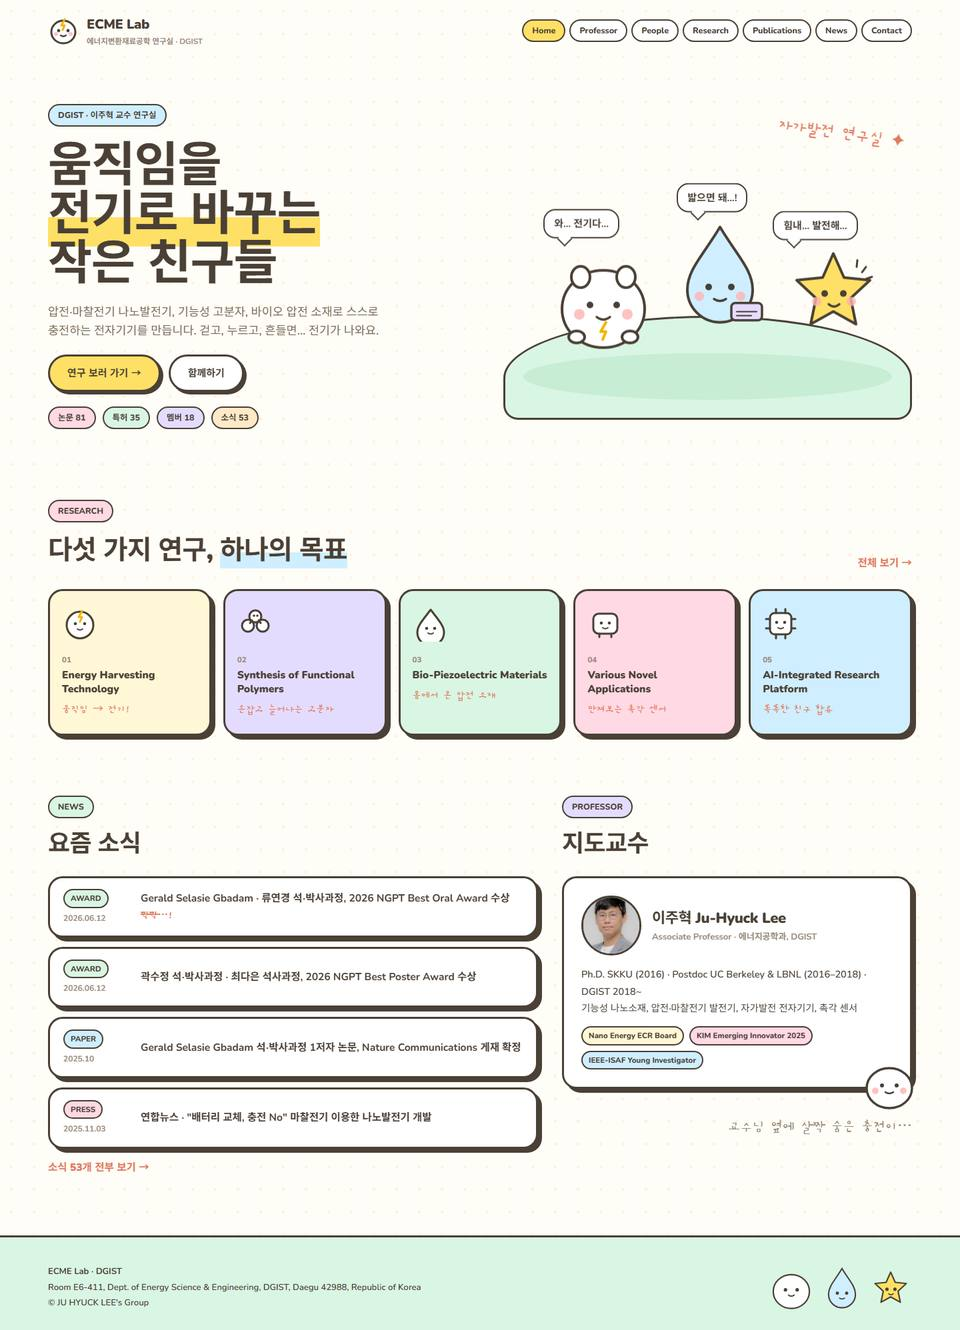
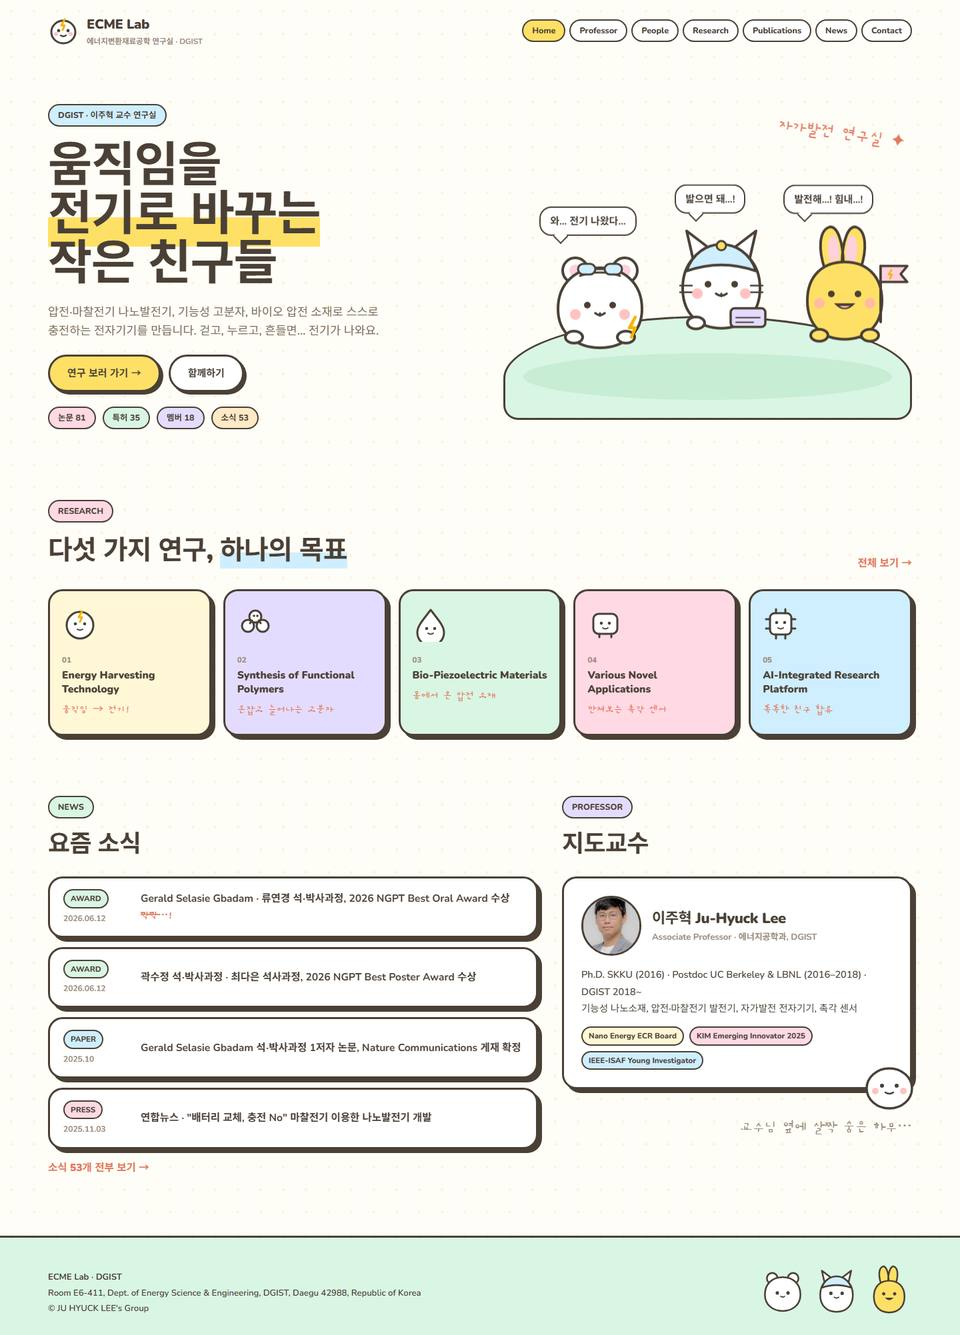
Drafts browser: updated mascot draft CH

diff --git a/drafts/d/DirectionCH.dc.html b/drafts/d/DirectionCH.dc.html
@@ -55,20 +55,52 @@
     <div style="position: relative; height: 520px;">
       <div style="position: absolute; left: 0; right: 0; bottom: 30px; height: 150px; background: #d9f5e3; border: 3px solid #4a4036; border-radius: 50% 50% 22px 22px / 60% 60% 22px 22px;"></div>
       <div style="position: absolute; left: 30px; right: 30px; bottom: 60px; height: 70px; background: #bfe9cf; border-radius: 50%; opacity: .7;"></div>
-      <!-- mascot 1: 충전이 (round white blob, lightning belly) -->
-      <div class="ch-bob" style="position: absolute; left: 70px; bottom: 120px;">
-        <div class="ch-bubble" style="left: -10px; top: -58px;">와… 전기다…</div>
-        <svg width="160" height="160" viewBox="0 0 160 160"><ellipse cx="80" cy="92" rx="62" ry="58" fill="#fff" stroke="#4a4036" stroke-width="4"/><ellipse cx="46" cy="44" rx="14" ry="16" fill="#fff" stroke="#4a4036" stroke-width="4"/><ellipse cx="114" cy="44" rx="14" ry="16" fill="#fff" stroke="#4a4036" stroke-width="4"/><circle cx="60" cy="86" r="5" fill="#4a4036"/><circle cx="100" cy="86" r="5" fill="#4a4036"/><path d="M70 104q10 8 20 0" stroke="#4a4036" stroke-width="3.5" fill="none" stroke-linecap="round"/><circle cx="44" cy="100" r="8" fill="#ffb3b3" opacity=".8"/><circle cx="116" cy="100" r="8" fill="#ffb3b3" opacity=".8"/><path d="M84 112l-8 14h8l-5 12" stroke="#f4b400" stroke-width="4" fill="none" stroke-linecap="round" stroke-linejoin="round"/><ellipse cx="40" cy="134" rx="12" ry="9" fill="#fff" stroke="#4a4036" stroke-width="4"/><ellipse cx="120" cy="134" rx="12" ry="9" fill="#fff" stroke="#4a4036" stroke-width="4"/></svg>
+      <!-- mascot 1: 하무 — hamster-like, white, round ears, goggles on head, holding a lightning bolt -->
+      <div class="ch-bob" style="position: absolute; left: 60px; bottom: 110px;">
+        <div class="ch-bubble" style="left: -6px; top: -56px;">와… 전기 나왔다…</div>
+        <svg width="170" height="175" viewBox="0 0 170 175">
+          <circle cx="48" cy="40" r="19" fill="#fff" stroke="#4a4036" stroke-width="4"/><circle cx="48" cy="40" r="9" fill="#ffd1dc"/>
+          <circle cx="122" cy="40" r="19" fill="#fff" stroke="#4a4036" stroke-width="4"/><circle cx="122" cy="40" r="9" fill="#ffd1dc"/>
+          <path d="M22 98c0-40 28-62 63-62s63 22 63 62c0 36-28 58-63 58S22 134 22 98z" fill="#fff" stroke="#4a4036" stroke-width="4"/>
+          <path d="M55 48q30-10 60 0" stroke="#4a4036" stroke-width="3" fill="none" stroke-linecap="round"/>
+          <rect x="52" y="30" width="26" height="16" rx="8" fill="#cfeeff" stroke="#4a4036" stroke-width="3"/><rect x="92" y="30" width="26" height="16" rx="8" fill="#cfeeff" stroke="#4a4036" stroke-width="3"/><path d="M78 38h14" stroke="#4a4036" stroke-width="3"/>
+          <circle cx="66" cy="92" r="5" fill="#4a4036"/><circle cx="104" cy="92" r="5" fill="#4a4036"/>
+          <path d="M78 104q7 6 14 0" stroke="#4a4036" stroke-width="3.5" fill="none" stroke-linecap="round"/><path d="M85 104v4" stroke="#4a4036" stroke-width="3" stroke-linecap="round"/>
+          <circle cx="48" cy="106" r="8" fill="#ffb3b3" opacity=".8"/><circle cx="122" cy="106" r="8" fill="#ffb3b3" opacity=".8"/>
+          <ellipse cx="46" cy="140" rx="13" ry="9" fill="#fff" stroke="#4a4036" stroke-width="4"/><ellipse cx="124" cy="140" rx="13" ry="9" fill="#fff" stroke="#4a4036" stroke-width="4"/>
+          <path d="M138 110l-9 16h9l-6 14" stroke="#f4b400" stroke-width="4.5" fill="#ffe066" stroke-linecap="round" stroke-linejoin="round"/>
+        </svg>
       </div>
-      <!-- mascot 2: 압전이 (blue droplet) holding a tile -->
-      <div class="ch-bob ch-bob2" style="position: absolute; left: 250px; bottom: 150px;">
-        <div class="ch-bubble" style="left: 10px; top: -52px;">밟으면 돼…!</div>
-        <svg width="150" height="170" viewBox="0 0 150 170"><path d="M75 14C50 56 26 78 26 108a49 49 0 0 0 98 0c0-30-24-52-49-94z" fill="#cfeeff" stroke="#4a4036" stroke-width="4" stroke-linejoin="round"/><circle cx="58" cy="104" r="5" fill="#4a4036"/><circle cx="92" cy="104" r="5" fill="#4a4036"/><path d="M66 122q9 6 18 0" stroke="#4a4036" stroke-width="3.5" fill="none" stroke-linecap="round"/><circle cx="44" cy="118" r="7" fill="#ffb3b3" opacity=".8"/><circle cx="106" cy="118" r="7" fill="#ffb3b3" opacity=".8"/><rect x="92" y="128" width="46" height="26" rx="6" fill="#e4dcff" stroke="#4a4036" stroke-width="3.5"/><path d="M100 141h30M100 147h22" stroke="#4a4036" stroke-width="2" stroke-linecap="round"/></svg>
+      <!-- mascot 2: 나비 — cat-like, white with a pale-blue lab beanie, whiskers, holding a nanogenerator tile -->
+      <div class="ch-bob ch-bob2" style="position: absolute; left: 245px; bottom: 140px;">
+        <div class="ch-bubble" style="left: 12px; top: -52px;">밟으면 돼…!</div>
+        <svg width="165" height="180" viewBox="0 0 165 180">
+          <path d="M40 62L30 18l34 26zM124 62l10-44-34 26z" fill="#fff" stroke="#4a4036" stroke-width="4" stroke-linejoin="round"/>
+          <path d="M24 104c0-40 26-62 58-62s58 22 58 62-26 60-58 60-58-20-58-60z" fill="#fff" stroke="#4a4036" stroke-width="4"/>
+          <path d="M30 78c8-26 30-40 52-40s44 14 52 40c-18-6-36-9-52-9s-34 3-52 9z" fill="#cfeeff" stroke="#4a4036" stroke-width="4" stroke-linejoin="round"/>
+          <circle cx="82" cy="40" r="7" fill="#ffe066" stroke="#4a4036" stroke-width="3"/>
+          <circle cx="62" cy="98" r="5" fill="#4a4036"/><circle cx="102" cy="98" r="5" fill="#4a4036"/>
+          <path d="M74 112q8 6 16 0" stroke="#4a4036" stroke-width="3.5" fill="none" stroke-linecap="round"/><path d="M82 112v4" stroke="#4a4036" stroke-width="3" stroke-linecap="round"/>
+          <path d="M20 100h18M20 110h18M126 100h18M126 110h18" stroke="#4a4036" stroke-width="2.5" stroke-linecap="round"/>
+          <circle cx="46" cy="112" r="8" fill="#ffb3b3" opacity=".8"/><circle cx="118" cy="112" r="8" fill="#ffb3b3" opacity=".8"/>
+          <rect x="96" y="134" width="52" height="28" rx="6" fill="#e4dcff" stroke="#4a4036" stroke-width="3.5"/><path d="M104 148h36M104 155h26" stroke="#4a4036" stroke-width="2" stroke-linecap="round"/>
+          <ellipse cx="44" cy="156" rx="13" ry="9" fill="#fff" stroke="#4a4036" stroke-width="4"/>
+        </svg>
       </div>
-      <!-- mascot 3: 마찰이 (yellow star-ish) -->
-      <div class="ch-bob ch-bob3" style="position: absolute; left: 420px; bottom: 125px;">
-        <div class="ch-bubble" style="left: -16px; top: -52px;">힘내… 발전해…</div>
-        <svg width="150" height="150" viewBox="0 0 150 150"><path d="M75 12l16 36 39 4-29 27 8 39-34-19-34 19 8-39L20 52l39-4z" fill="#ffe066" stroke="#4a4036" stroke-width="4" stroke-linejoin="round"/><circle cx="62" cy="72" r="5" fill="#4a4036"/><circle cx="90" cy="72" r="5" fill="#4a4036"/><path d="M68 88q8 7 16 0" stroke="#4a4036" stroke-width="3.5" fill="none" stroke-linecap="round"/><circle cx="50" cy="84" r="7" fill="#ffb3b3" opacity=".8"/><circle cx="102" cy="84" r="7" fill="#ffb3b3" opacity=".8"/><path d="M118 40l6-8M124 50l9-3M110 32l1-10" stroke="#4a4036" stroke-width="3" stroke-linecap="round"/></svg>
+      <!-- mascot 3: 토토 — rabbit-like, yellow, long ears, wide happy mouth, waving a flag -->
+      <div class="ch-bob ch-bob3" style="position: absolute; left: 430px; bottom: 120px;">
+        <div class="ch-bubble" style="left: -10px; top: -56px;">발전해…! 힘내…!</div>
+        <svg width="190" height="190" viewBox="0 0 190 190">
+          <path d="M52 70c-10-30-8-56 6-62 12-5 22 20 22 56zM106 70c10-30 8-56-6-62-12-5-22 20-22 56z" fill="#ffe066" stroke="#4a4036" stroke-width="4" stroke-linejoin="round"/>
+          <path d="M60 60c-5-20-3-36 4-40 6-3 11 14 10 36zM98 60c5-20 3-36-4-40-6-3-11 14-10 36z" fill="#ffd1dc"/>
+          <path d="M26 118c0-38 24-58 56-58s56 20 56 58-24 58-56 58-56-20-56-58z" fill="#ffe066" stroke="#4a4036" stroke-width="4"/>
+          <circle cx="62" cy="108" r="5" fill="#4a4036"/><circle cx="102" cy="108" r="5" fill="#4a4036"/>
+          <path d="M66 122q16 18 32 0z" fill="#4a4036"/><path d="M74 126q8 6 16 0" fill="#ffb3b3"/>
+          <circle cx="44" cy="122" r="8" fill="#ffb3b3" opacity=".8"/><circle cx="120" cy="122" r="8" fill="#ffb3b3" opacity=".8"/>
+          <ellipse cx="44" cy="170" rx="13" ry="9" fill="#ffe066" stroke="#4a4036" stroke-width="4"/><ellipse cx="120" cy="170" rx="13" ry="9" fill="#ffe066" stroke="#4a4036" stroke-width="4"/>
+          <path d="M136 150V66" stroke="#4a4036" stroke-width="4" stroke-linecap="round"/><path d="M136 66h40l-10 12 10 12h-40z" fill="#ffd1dc" stroke="#4a4036" stroke-width="3.5" stroke-linejoin="round"/>
+          <path d="M152 72l-4 7h5l-3 6" stroke="#f4b400" stroke-width="2.5" fill="none" stroke-linecap="round" stroke-linejoin="round"/>
+        </svg>
       </div>
       <div class="ch-hand" style="position: absolute; right: 10px; top: 40px; font-size: 26px; color: #e0795f; transform: rotate(8deg);">자가발전 연구실 ✦</div>
     </div>
@@ -107,7 +139,7 @@
         <div style="display: flex; flex-wrap: wrap; gap: 8px; margin-top: 14px;"><span class="ch-tag" style="background: #fff7d6;">Nano Energy ECR Board</span><span class="ch-tag" style="background: #ffd9e4;">KIM Emerging Innovator 2025</span><span class="ch-tag" style="background: #cfeeff;">IEEE-ISAF Young Investigator</span></div>
         <svg width="90" height="80" viewBox="0 0 90 80" style="position: absolute; right: -14px; bottom: -34px;"><ellipse cx="45" cy="48" rx="34" ry="30" fill="#fff" stroke="#4a4036" stroke-width="3.5"/><circle cx="34" cy="44" r="3" fill="#4a4036"/><circle cx="56" cy="44" r="3" fill="#4a4036"/><path d="M39 54q6 4 12 0" stroke="#4a4036" stroke-width="2.5" fill="none" stroke-linecap="round"/><circle cx="24" cy="52" r="5" fill="#ffb3b3" opacity=".8"/><circle cx="66" cy="52" r="5" fill="#ffb3b3" opacity=".8"/></svg>
       </div>
-      <div class="ch-hand" style="margin-top: 40px; font-size: 22px; color: #9a8c7c; text-align: right;">교수님 옆에 살짝 숨은 충전이…</div>
+      <div class="ch-hand" style="margin-top: 40px; font-size: 22px; color: #9a8c7c; text-align: right;">교수님 옆에 살짝 숨은 하무…</div>
     </div>
   </div>
   <!-- footer hill -->
@@ -115,9 +147,9 @@
     <div style="display: flex; justify-content: space-between; align-items: flex-end;">
       <div style="font-size: 13px; color: #4a4036; line-height: 1.8;"><b>ECME Lab · DGIST</b><br>Room E6-411, Dept. of Energy Science &amp; Engineering, DGIST, Daegu 42988, Republic of Korea<br>© JU HYUCK LEE's Group</div>
       <div style="display: flex; gap: 10px; align-items: flex-end;">
-        <svg width="70" height="70" viewBox="0 0 160 160"><ellipse cx="80" cy="92" rx="62" ry="58" fill="#fff" stroke="#4a4036" stroke-width="5"/><circle cx="60" cy="86" r="6" fill="#4a4036"/><circle cx="100" cy="86" r="6" fill="#4a4036"/><path d="M70 104q10 8 20 0" stroke="#4a4036" stroke-width="4" fill="none" stroke-linecap="round"/></svg>
-        <svg width="62" height="70" viewBox="0 0 150 170"><path d="M75 14C50 56 26 78 26 108a49 49 0 0 0 98 0c0-30-24-52-49-94z" fill="#cfeeff" stroke="#4a4036" stroke-width="5"/><circle cx="58" cy="104" r="6" fill="#4a4036"/><circle cx="92" cy="104" r="6" fill="#4a4036"/><path d="M66 122q9 6 18 0" stroke="#4a4036" stroke-width="4" fill="none" stroke-linecap="round"/></svg>
-        <svg width="64" height="64" viewBox="0 0 150 150"><path d="M75 12l16 36 39 4-29 27 8 39-34-19-34 19 8-39L20 52l39-4z" fill="#ffe066" stroke="#4a4036" stroke-width="5" stroke-linejoin="round"/><circle cx="62" cy="72" r="6" fill="#4a4036"/><circle cx="90" cy="72" r="6" fill="#4a4036"/><path d="M68 88q8 7 16 0" stroke="#4a4036" stroke-width="4" fill="none" stroke-linecap="round"/></svg>
+        <svg width="72" height="74" viewBox="0 0 170 175"><circle cx="48" cy="40" r="19" fill="#fff" stroke="#4a4036" stroke-width="6"/><circle cx="122" cy="40" r="19" fill="#fff" stroke="#4a4036" stroke-width="6"/><path d="M22 98c0-40 28-62 63-62s63 22 63 62c0 36-28 58-63 58S22 134 22 98z" fill="#fff" stroke="#4a4036" stroke-width="6"/><circle cx="66" cy="92" r="6" fill="#4a4036"/><circle cx="104" cy="92" r="6" fill="#4a4036"/><path d="M78 104q7 6 14 0" stroke="#4a4036" stroke-width="4" fill="none" stroke-linecap="round"/></svg>
+        <svg width="70" height="76" viewBox="0 0 165 180"><path d="M40 62L30 18l34 26zM124 62l10-44-34 26z" fill="#fff" stroke="#4a4036" stroke-width="6" stroke-linejoin="round"/><path d="M24 104c0-40 26-62 58-62s58 22 58 62-26 60-58 60-58-20-58-60z" fill="#fff" stroke="#4a4036" stroke-width="6"/><path d="M30 78c8-26 30-40 52-40s44 14 52 40c-18-6-36-9-52-9s-34 3-52 9z" fill="#cfeeff" stroke="#4a4036" stroke-width="6" stroke-linejoin="round"/><circle cx="62" cy="98" r="6" fill="#4a4036"/><circle cx="102" cy="98" r="6" fill="#4a4036"/><path d="M74 112q8 6 16 0" stroke="#4a4036" stroke-width="4" fill="none" stroke-linecap="round"/></svg>
+        <svg width="68" height="78" viewBox="0 0 165 190"><path d="M52 70c-10-30-8-56 6-62 12-5 22 20 22 56zM106 70c10-30 8-56-6-62-12-5-22 20-22 56z" fill="#ffe066" stroke="#4a4036" stroke-width="6" stroke-linejoin="round"/><path d="M26 118c0-38 24-58 56-58s56 20 56 58-24 58-56 58-56-20-56-58z" fill="#ffe066" stroke="#4a4036" stroke-width="6"/><circle cx="62" cy="108" r="6" fill="#4a4036"/><circle cx="102" cy="108" r="6" fill="#4a4036"/><path d="M66 122q16 18 32 0z" fill="#4a4036"/></svg>
       </div>
     </div>
   </div>
